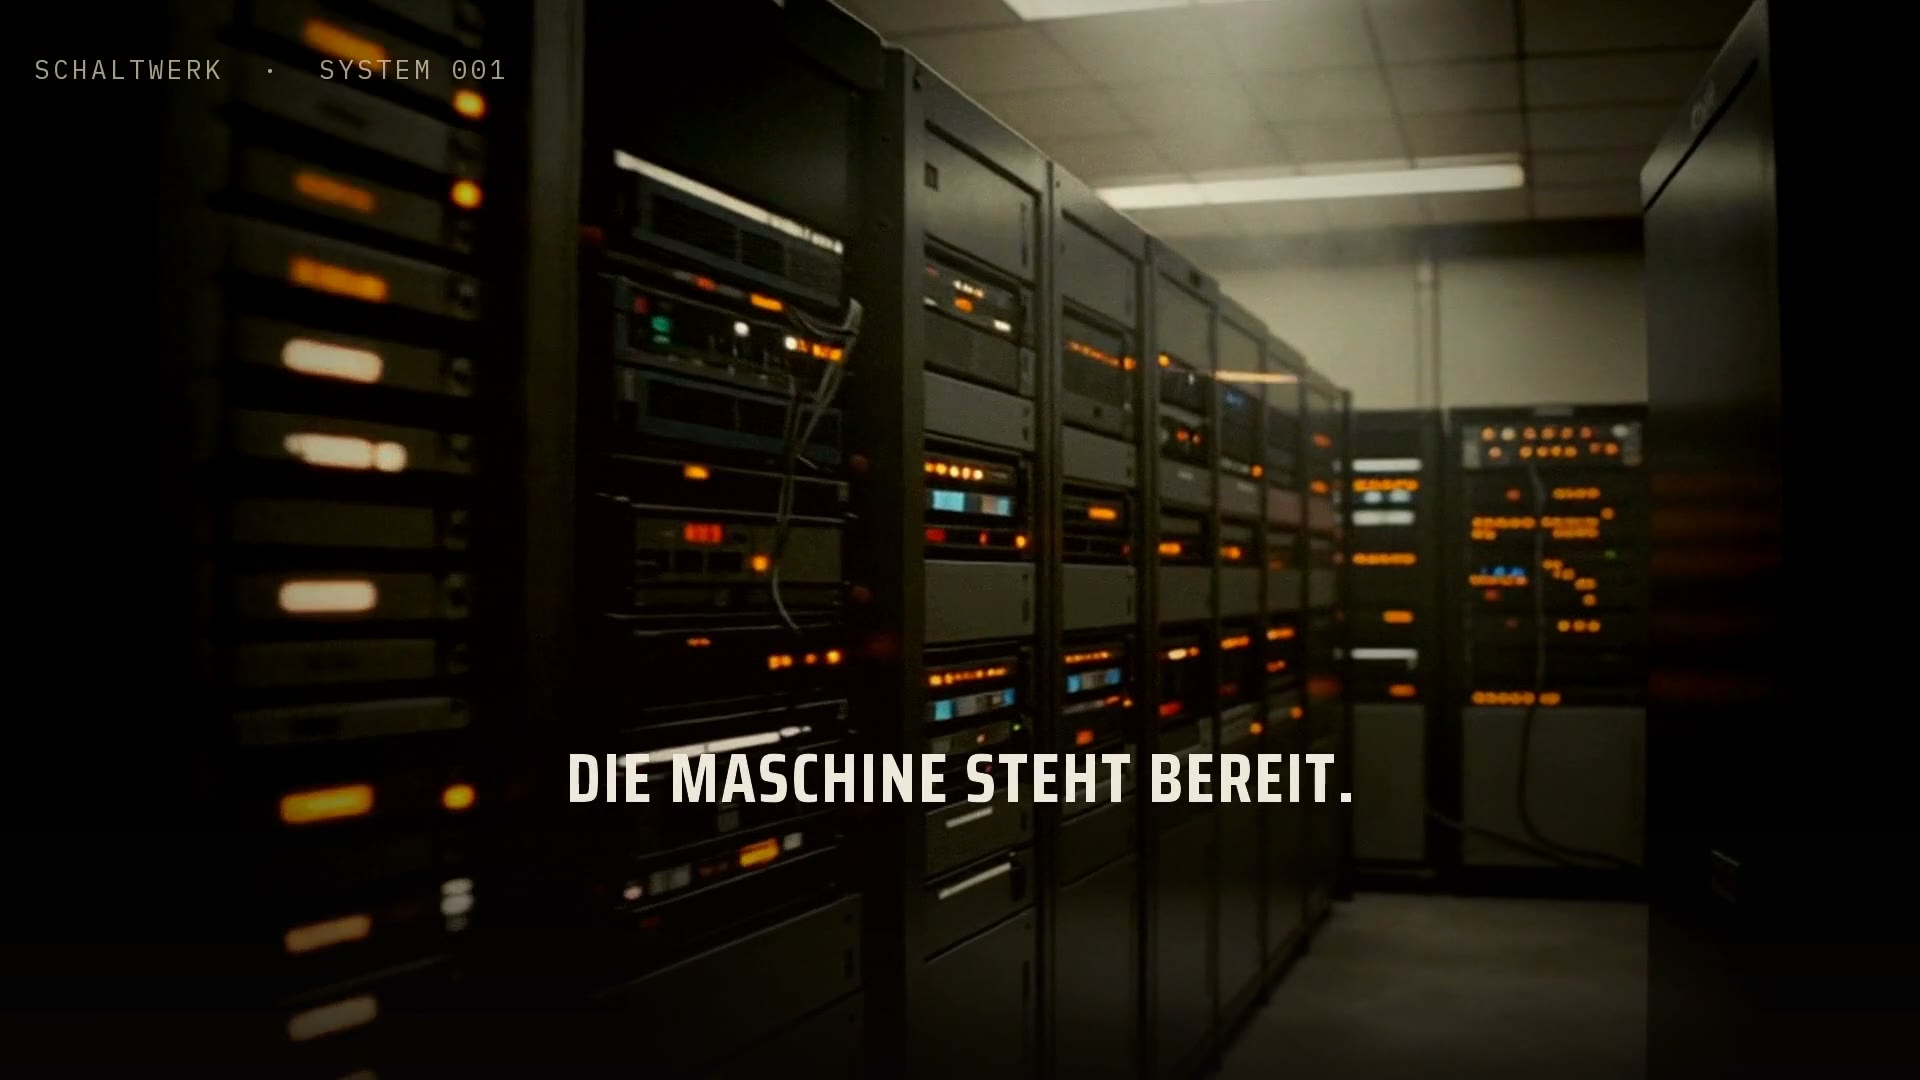
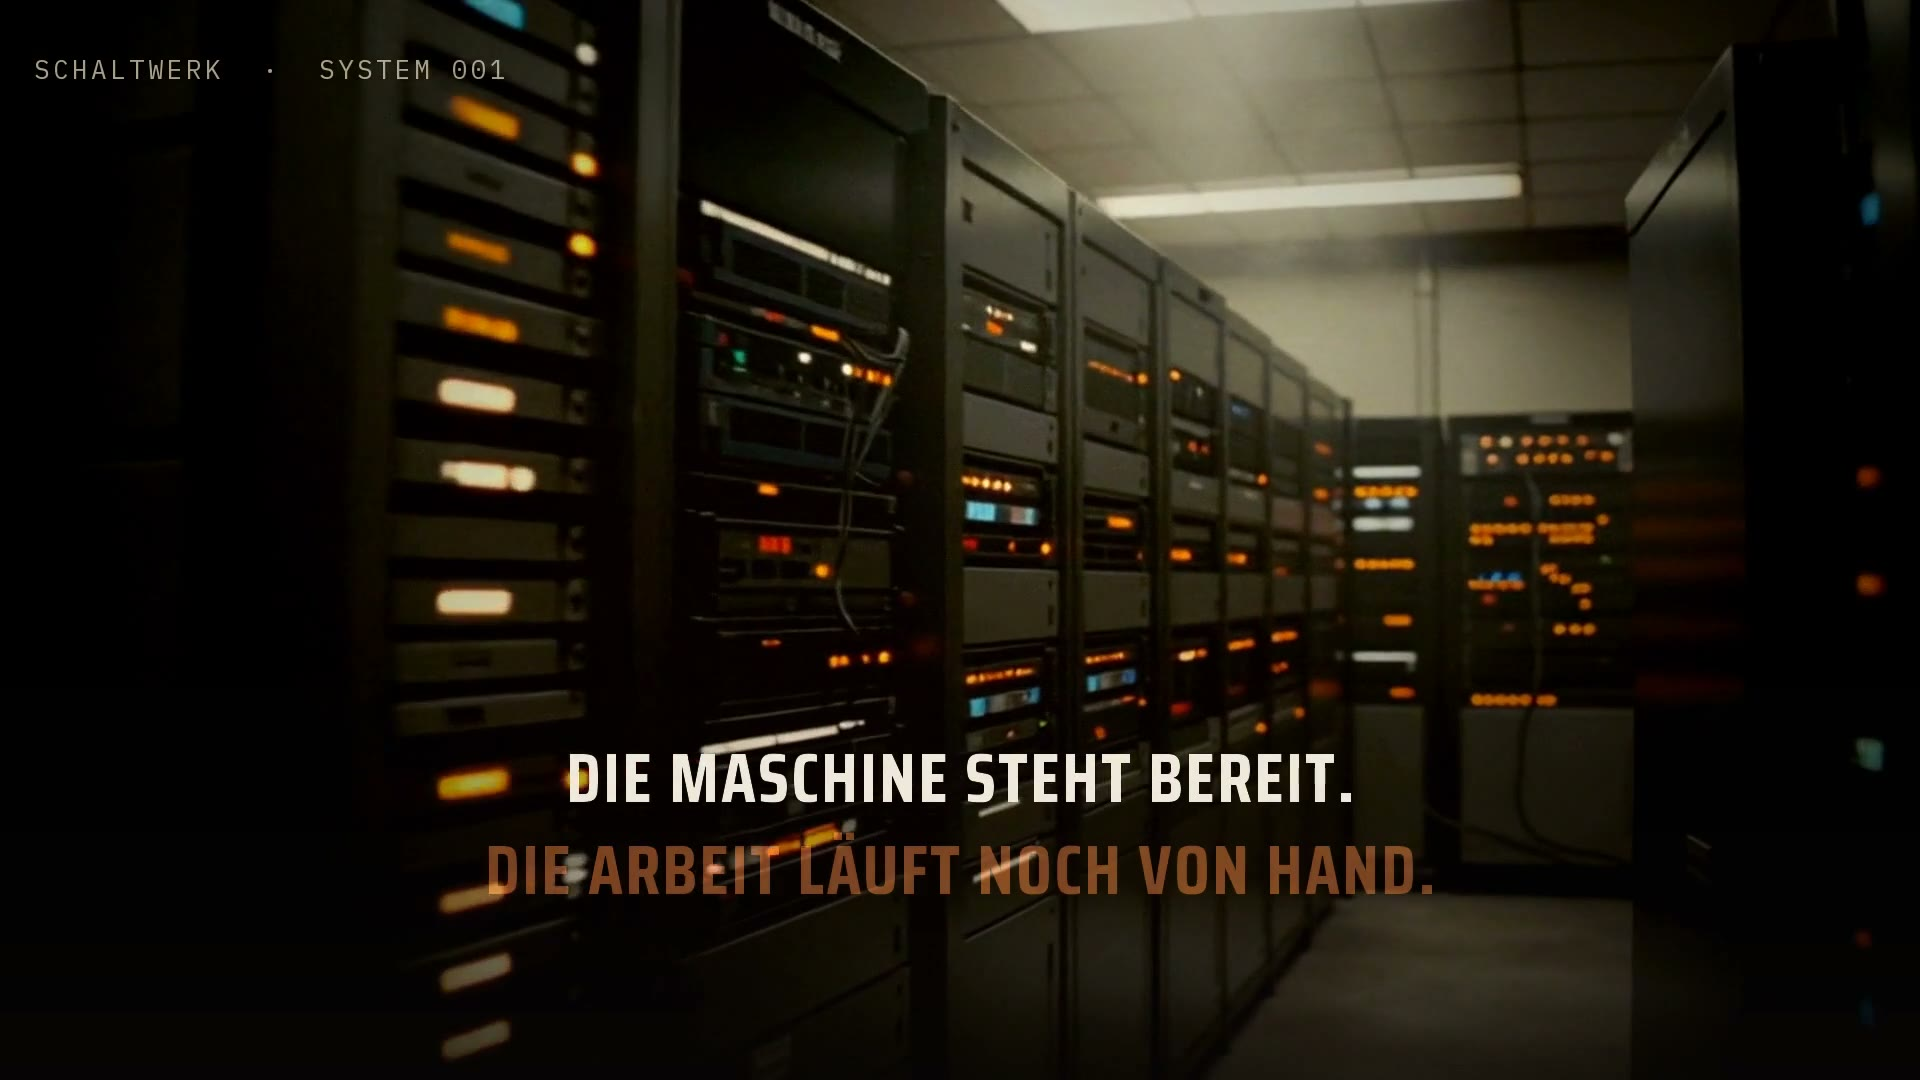
Trailer: shorter (10.4s), new music with hits on cuts, sound-on-first-interaction

diff --git a/index.html b/index.html
@@ -597,18 +597,28 @@ footer{padding:0 0 60px}
     });
     play.addEventListener('click',function(){ play.style.display='none'; vid.play().catch(function(){}); });
 
-    function tryAutoplay(){
-      var p=vid.play();
-      if(p&&p.catch){ p.catch(function(){
-        /* muted autoplay blocked (rare on real browsers): offer a play button, don't trap the user */
-        play.style.display='block';
-        setTimeout(function(){ if(vid.paused && vid.currentTime<0.1) finish(); }, 9000);
-      }); }
+    function armUnmute(){
+      function un(){ try{vid.muted=false;}catch(e){} snd.innerHTML='<b>♪</b> Ton aus'; if(vid.paused) vid.play().catch(function(){}); }
+      ['pointerdown','touchstart','keydown','scroll'].forEach(function(ev){ window.addEventListener(ev,un,{once:true,capture:true,passive:true}); });
     }
-    if(vid.readyState>=2) tryAutoplay();
-    else { vid.addEventListener('loadeddata',tryAutoplay,{once:true});
+    function startPlayback(){
+      /* Ziel: Ton von Anfang an. Browser blocken Auto-Play mit Ton meist → dann stumm starten
+         und beim ersten Antippen/Scrollen sofort Ton dazuschalten. */
+      vid.muted=false;
+      var p=vid.play();
+      if(p&&p.then){
+        p.then(function(){ snd.innerHTML='<b>♪</b> Ton aus'; })
+         .catch(function(){
+            vid.muted=true; snd.innerHTML='<b>♪</b> Ton an';
+            var p2=vid.play(); if(p2&&p2.catch){ p2.catch(function(){ play.style.display='block'; }); }
+            armUnmute();
+         });
+      } else { armUnmute(); }
+    }
+    if(vid.readyState>=2) startPlayback();
+    else { vid.addEventListener('loadeddata',startPlayback,{once:true});
            setTimeout(function(){ if(vid.readyState<2) finish(); }, 7000); }
-    setTimeout(finish, 22000); /* absolute safety */
+    setTimeout(finish, 16000); /* absolute safety (Trailer ~10.4s) */
   })();
 
   /* ---------- STATE MACHINE ---------- */